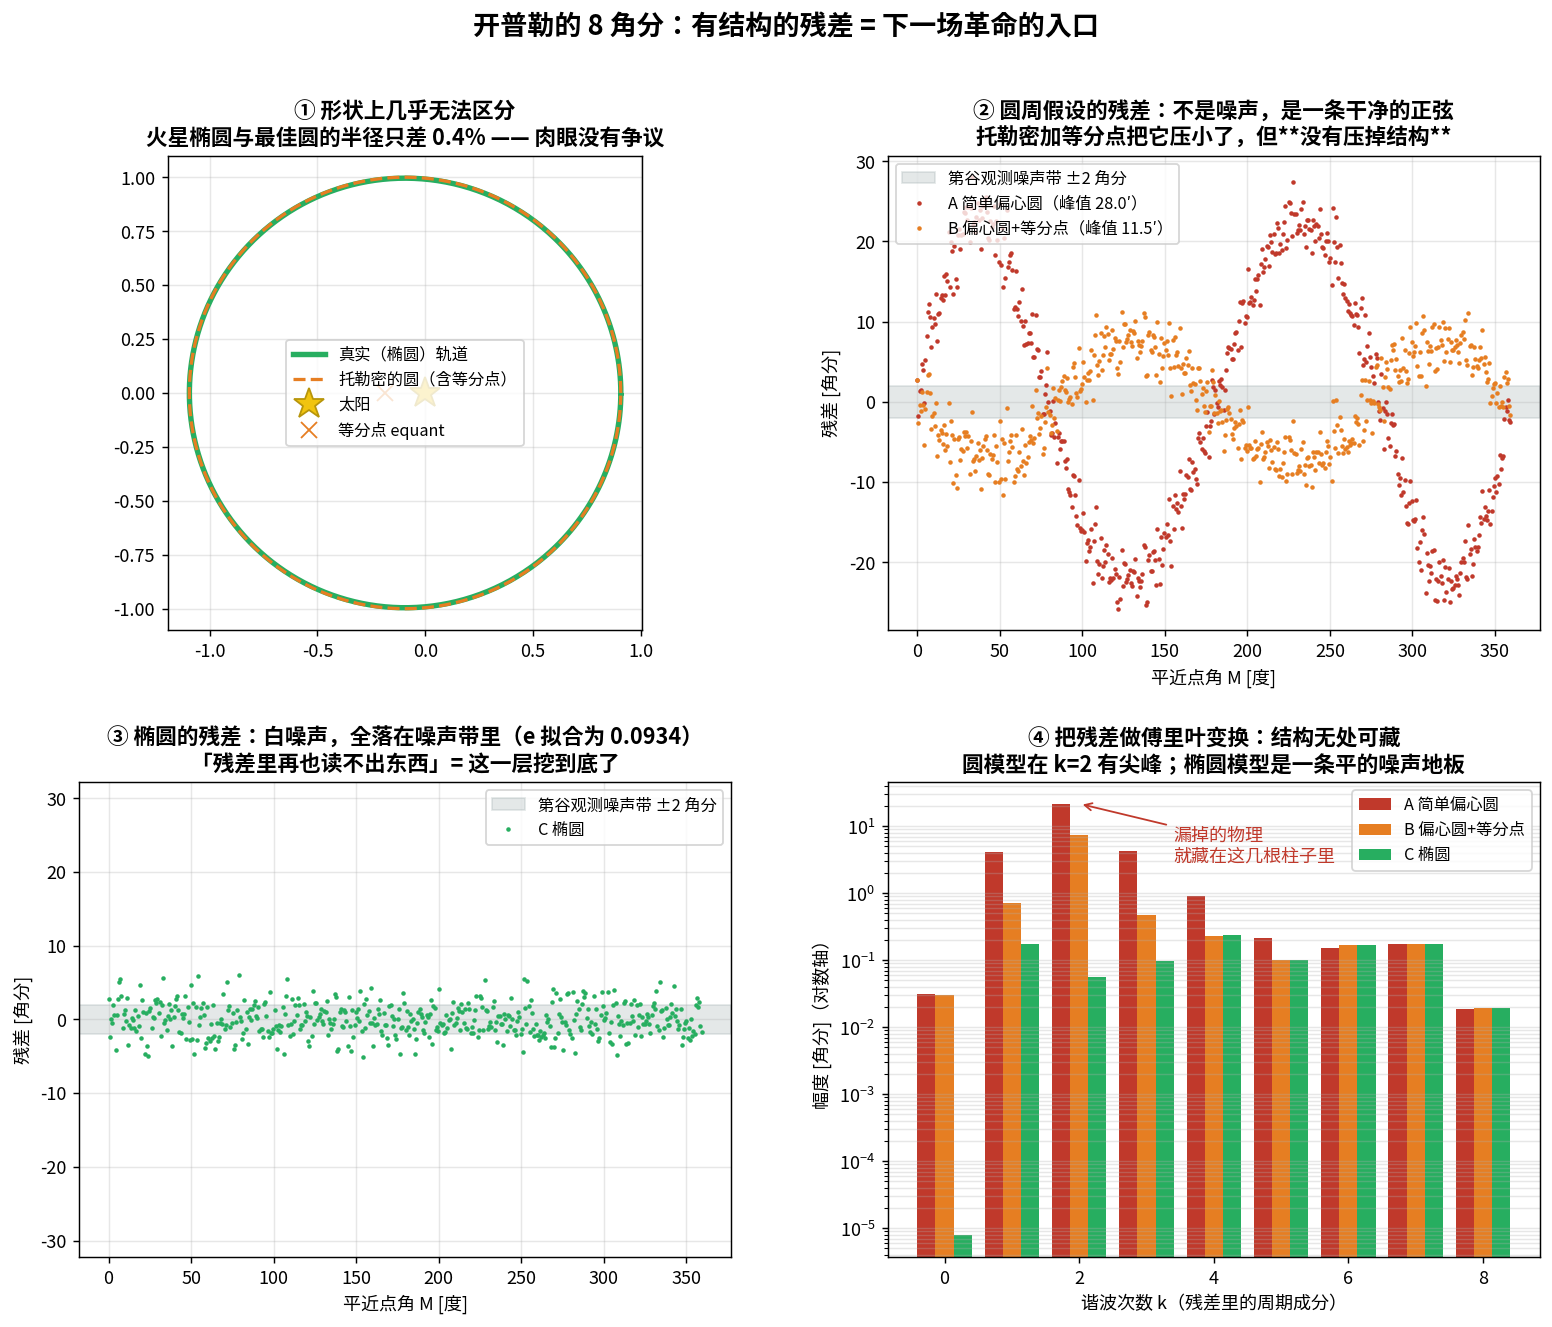
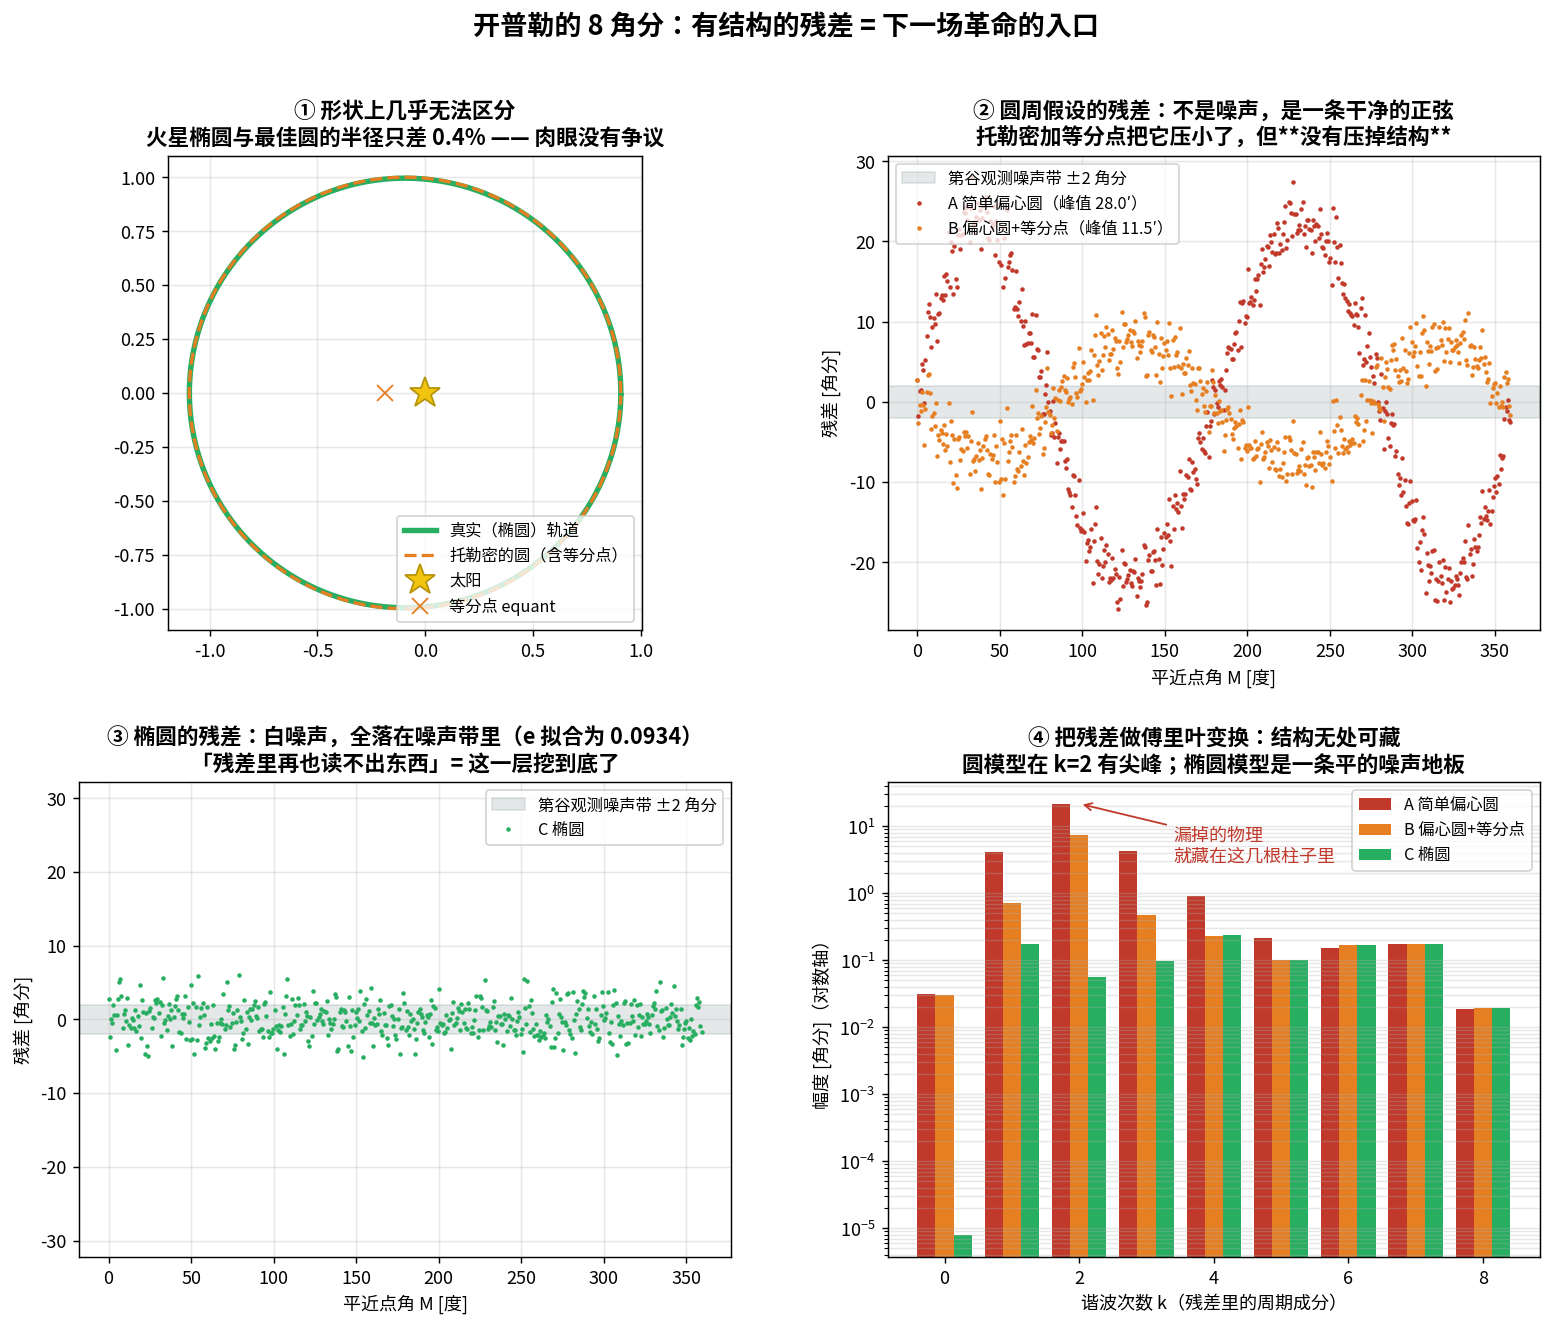
fix ch00_4_modeling

Changed region(s): [[0.2474, 0.3708, 0.4021, 0.4635], [0.1856, 0.2472, 0.3402, 0.3399]]

diff --git a/ch00_4_modeling/kepler_8_arcmin.py b/ch00_4_modeling/kepler_8_arcmin.py
@@ -23,8 +23,9 @@ Chapter 0.4.4 · 那 8 角分：残差里藏着下一场革命
 **现代建模的第一条铁律就诞生在这里：认真对待残差。**
 你盯着 loss 曲线上那个下不去的平台时，你和开普勒在做同一件事。
 
-（说明：8 角分是历史记载的量级，不同的圆周模型、不同的数据子集会给出
- 几角分到二十几角分不等。本脚本报告的是实际算出来的数字，重点在**结构**。）
+（说明：本脚本实际跑出来的数字 —— 简单偏心圆残差峰值 28′；托勒密的等分点模型
+ 峰值 11.5′、二次谐波幅度 **7.5′**，正好落在历史记载的 8 角分那个量级上；
+ 椭圆则掉进 ±2′ 的第谷噪声带里。数字会随模型细节浮动，重点始终在**结构**。）
 
 运行：  python ch00_4_modeling/kepler_8_arcmin.py
 ================================================================================
@@ -158,7 +159,7 @@ def main():
     ax.set_aspect("equal")
     ax.set_title("① 形状上几乎无法区分\n火星椭圆与最佳圆的半径只差 0.4% —— 肉眼没有争议",
                  fontsize=12, fontweight="bold")
-    ax.legend(fontsize=9)
+    ax.legend(fontsize=9, loc="lower right")
     ax.grid(alpha=0.3)
 
     # (b) 两个圆模型的残差 —— 都有结构
